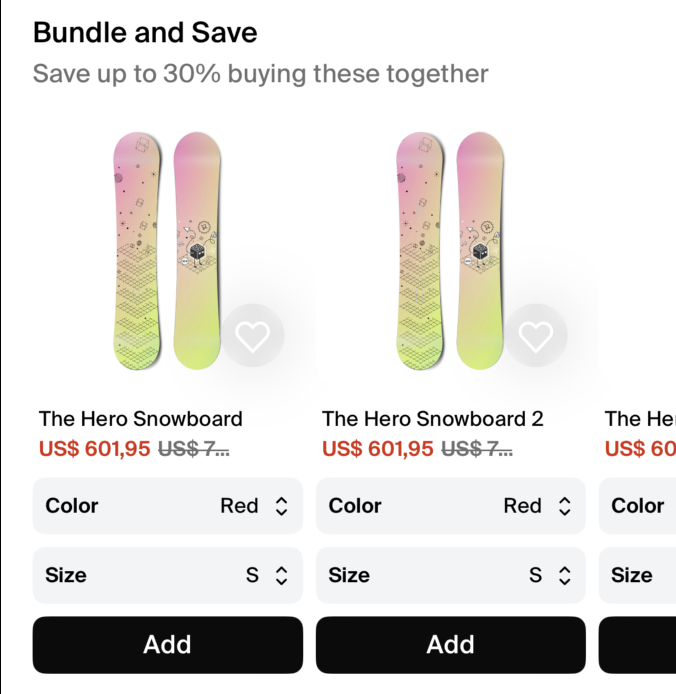
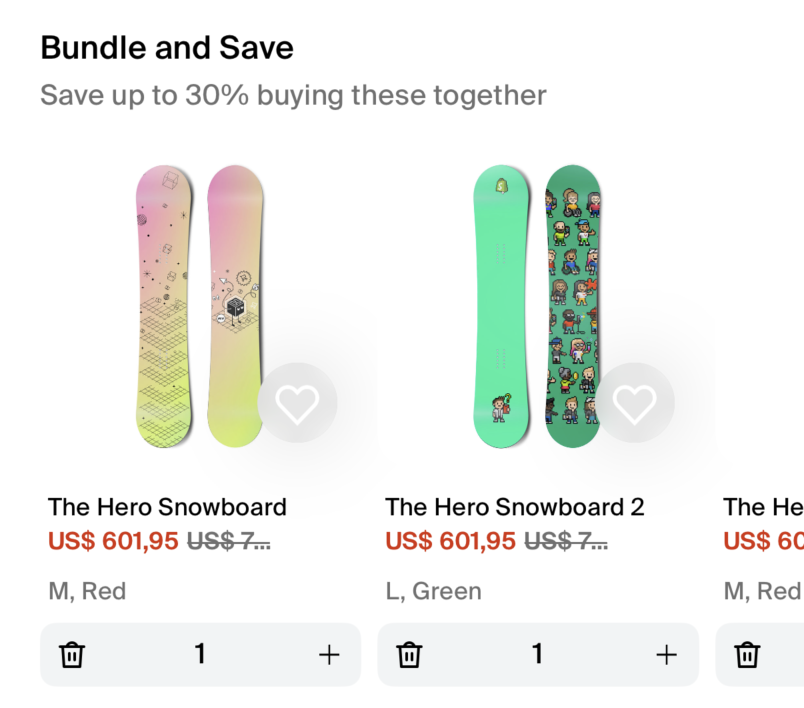
Add CompactVariantPicker with new design

diff --git a/packages/shop-minis-ui-extensions/src/extensions/bundle-products-carousel/seed.ts b/packages/shop-minis-ui-extensions/src/extensions/bundle-products-carousel/seed.ts
@@ -108,6 +108,12 @@ const FIXTURE_VARIANT_3: ProductsCarouselProduct['defaultVariant'] = {
       url: 'https://cdn.shopify.com/s/files/1/0688/2233/5510/products/Main_0a4e9096-021a-4c1e-8750-24b233166a12_990x.jpg?v=1671633756',
     },
   },
+  image: {
+    __typename: 'Image' as const,
+    id: 'gid://shopify/ProductImage/39774118445078',
+    altText: null,
+    url: 'https://cdn.shopify.com/s/files/1/0688/2233/5510/products/Main_0a4e9096-021a-4c1e-8750-24b233166a12_990x.jpg?v=1671633756',
+  },
 } as const
 
 export const FIXTURE_PRODUCT: ProductsCarouselProduct = {
@@ -143,12 +149,24 @@ const FIXTURE_PRODUCT_2: ProductsCarouselProduct = {
   ...FIXTURE_PRODUCT,
   id: 'gid://shopify/Product/7922581602559-2',
   title: 'The Hero Snowboard 2',
+  featuredImage: {
+    __typename: 'Image',
+    id: 'gid://shopify/ProductImage/39774118445078',
+    altText: null,
+    url: 'https://cdn.shopify.com/s/files/1/0688/2233/5510/products/Main_0a4e9096-021a-4c1e-8750-24b233166a12_990x.jpg?v=1671633756',
+  },
 }
 
 const FIXTURE_PRODUCT_3: ProductsCarouselProduct = {
   ...FIXTURE_PRODUCT,
   id: 'gid://shopify/Product/7922581602559-3',
   title: 'The Hero Snowboard 3',
+  featuredImage: {
+    __typename: 'Image',
+    id: 'gid://shopify/ProductImage/39774118445078',
+    altText: null,
+    url: 'https://cdn.shopify.com/s/files/1/0688/2233/5510/products/Main_0a4e9096-021a-4c1e-8750-24b233166a12_990x.jpg?v=1671633756',
+  },
 }
 
 export const FIXTURE_SHOP_GID = '62104633599'

diff --git a/packages/shop-minis-ui-extensions/src/extensions/bundle-products-carousel/components/ProductsCarouselCard.tsx b/packages/shop-minis-ui-extensions/src/extensions/bundle-products-carousel/components/ProductsCarouselCard.tsx
@@ -4,10 +4,9 @@ import {
   CompactVariantPicker,
   ProductOption,
   Variant,
-  Button,
   theme,
 } from '@shopify/shop-minis-platform-sdk'
-import {ComponentProps, useCallback, useState} from 'react'
+import {ComponentProps, useState} from 'react'
 import {Dimensions} from 'react-native'
 
 const {width: SCREEN_WIDTH} = Dimensions.get('screen')
@@ -62,12 +61,16 @@ export function ProductsCarouselCard({
           initialSelectedOptions={product.defaultVariant.selectedOptions}
           selectedOptions={selectedVariant.selectedOptions}
           onProductVariantUpdated={(
-            variant: ProductsCarouselProductVariant | null,
-            quantity: number
+            variant: Variant | null,
+            quantity?: number
           ) => {
             if (variant) {
-              setSelectedVariant(variant)
-              onProductVariantUpdated(variant, quantity)
+              console.log('variant', variant.selectedOptions)
+              setSelectedVariant(variant as ProductsCarouselProductVariant)
+              onProductVariantUpdated(
+                variant as ProductsCarouselProductVariant,
+                quantity ?? 1
+              )
             }
           }}
         />

diff --git a/packages/fixture-mini/src/targets/shop.product.variants.render-before/render.tsx b/packages/fixture-mini/src/targets/shop.product.variants.render-before/render.tsx
@@ -16,8 +16,13 @@ export function RenderPPExtension({
       products={FIXTURE_PRODUCTS}
       shopId={FIXTURE_SHOP_GID}
       subtitle="Save up to 30% buying these together"
-      onProductAddedToBundle={() => {}}
-      onProductRemovedFromBundle={() => {}}
+      onProductVariantUpdated={(variant, quantity) => {
+        console.log(
+          'onProductVariantUpdated',
+          variant.selectedOptions,
+          quantity
+        )
+      }}
     />
   )
 }

diff --git a/packages/shop-minis-ui-extensions/src/extensions/bundle-products-carousel/README.md b/packages/shop-minis-ui-extensions/src/extensions/bundle-products-carousel/README.md
@@ -16,20 +16,24 @@ import { BundleProductsCarousel } from '@shopify/shop-minis-ui-extensions'
   subtitle="Add items to your bundle and discover savings"
   products={products}
   shopId="shop456"
-  onProductAddedToBundle={(product, variant) => console.log("Added", product, variant)}
-  onProductRemovedFromBundle={(product, variant) => console.log("Removed", product, variant)}
+  onProductVariantUpdated={(variant, quantity) => {
+    console.log(
+      'onProductVariantUpdated',
+      variant.selectedOptions,
+      quantity
+    )
+  }}
 />
 ```
 
 ### Props
 The component accepts the following props:
 
-- **products** (`ProductsCarouselProduct[]`): An array of products to be displayed in the carousel. Each product object includes details necessary for display and interaction.
-- **shopId** (`string`): The identifier for the shop where the products are hosted.
-- **onProductAddedToBundle** (`(product: ProductsCarouselProduct, variant: ProductsCarouselProductVariant) => void`): A callback function that is invoked when a product is added to the bundle.
-- **onProductRemovedFromBundle** (`(product: ProductsCarouselProduct, variant: ProductsCarouselProductVariant) => void`): A callback function that is invoked when a product is removed from the bundle.
 - **title** (`string`, optional): The title to be displayed above the carousel. Defaults to "Bundle and Save" if not provided.
 - **subtitle** (`string`, optional): A subtitle to provide additional context or information about the products in the carousel.
+- **products** (`ProductsCarouselProduct[]`): An array of products to be displayed in the carousel. Each product object includes details necessary for display and interaction.
+- **shopId** (`string`): The identifier for the shop where the products are hosted.
+- **onProductVariantUpdated** (`(variant: ProductsCarouselProductVariant) => void, quantity?: number `): A callback function that is invoked when variant is selected in the bundle.
 
 
 | <img src="../../assets/extensions/bundle-products-carousel-full.png" alt="Example of BundleProductsCarousel" width="390" /> |
